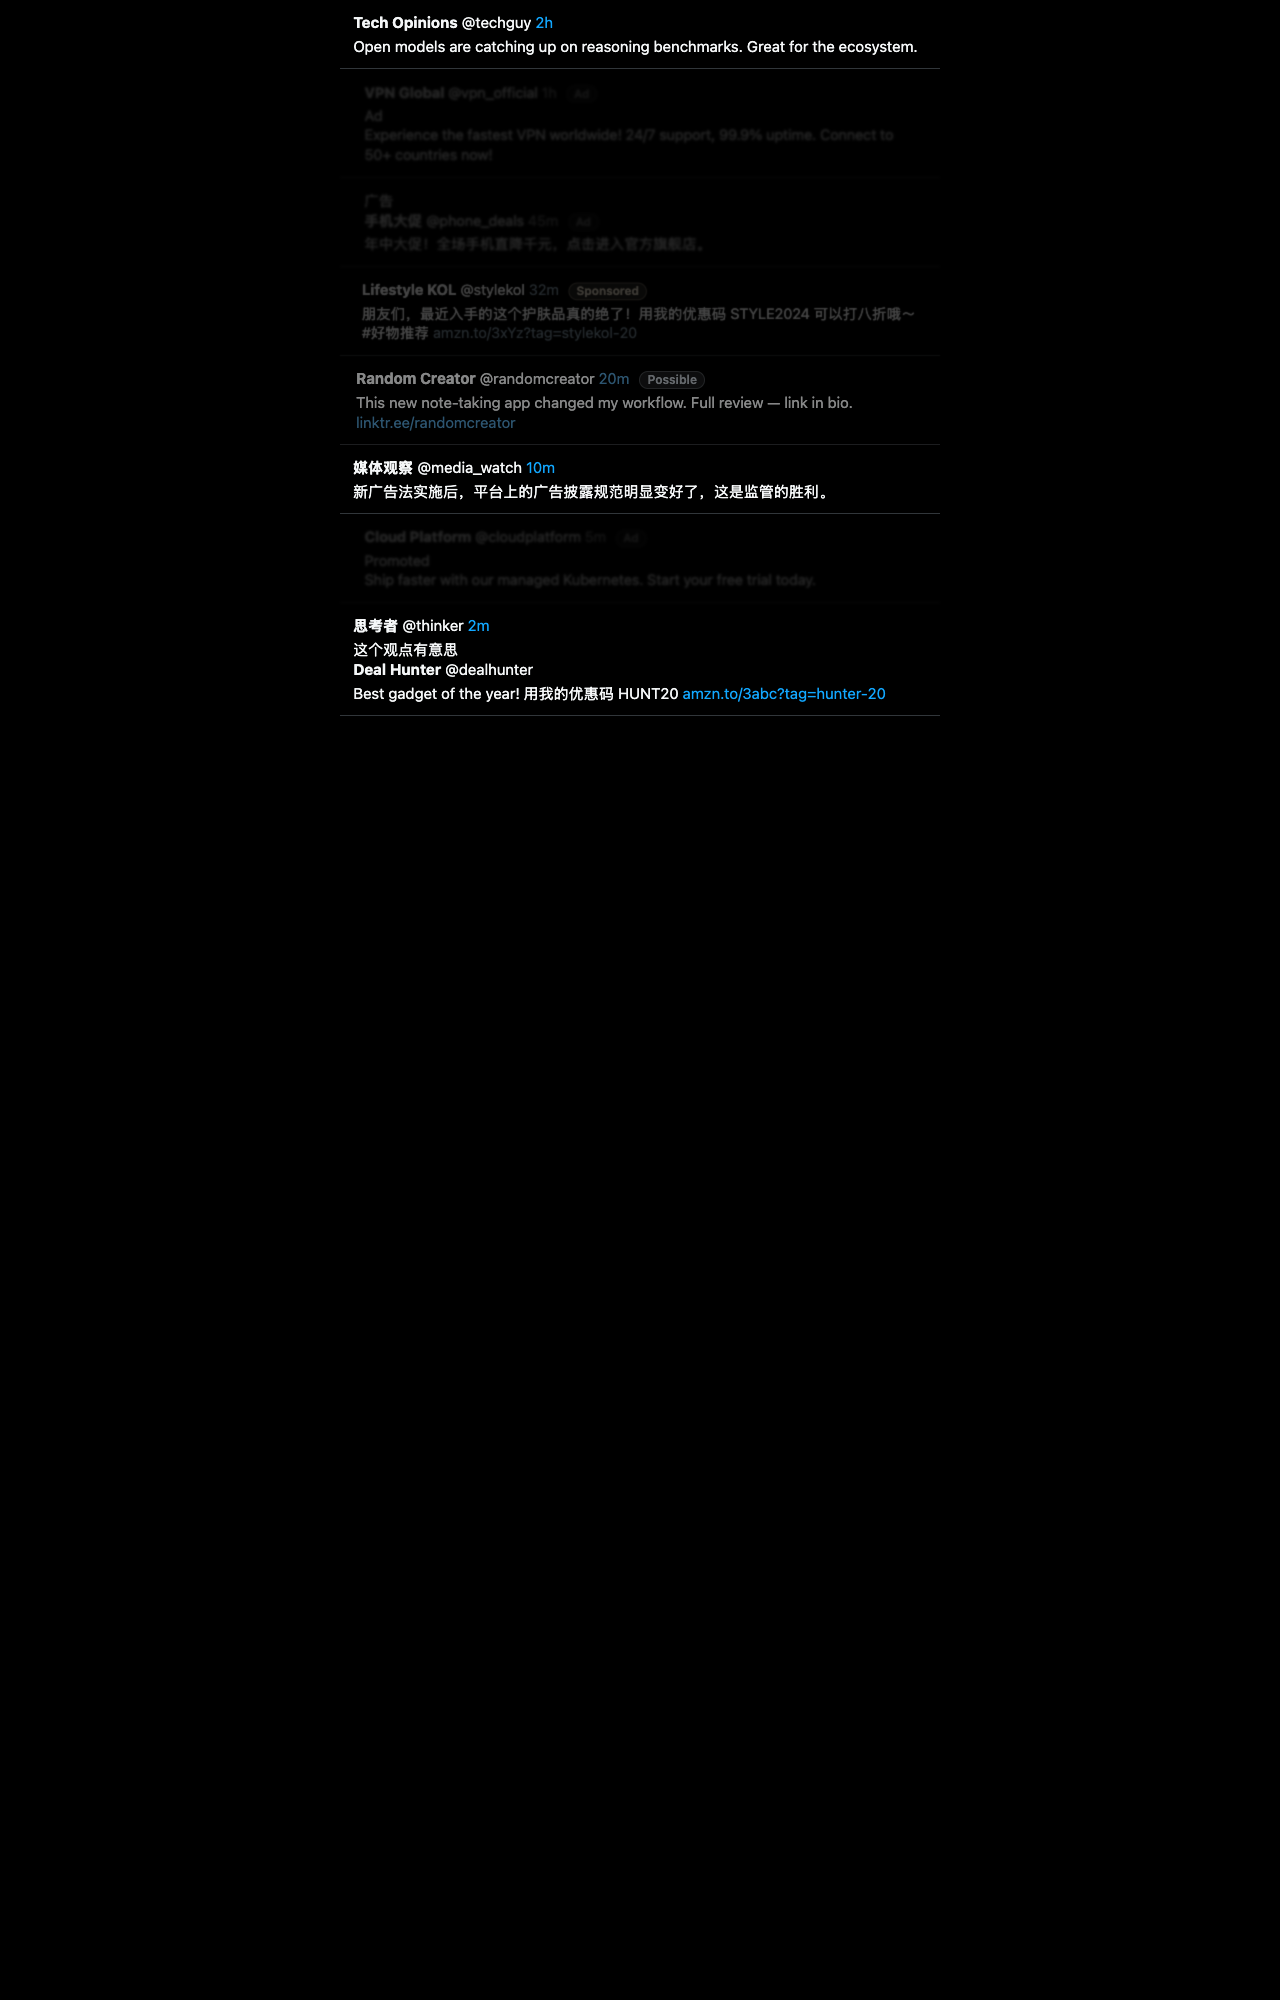
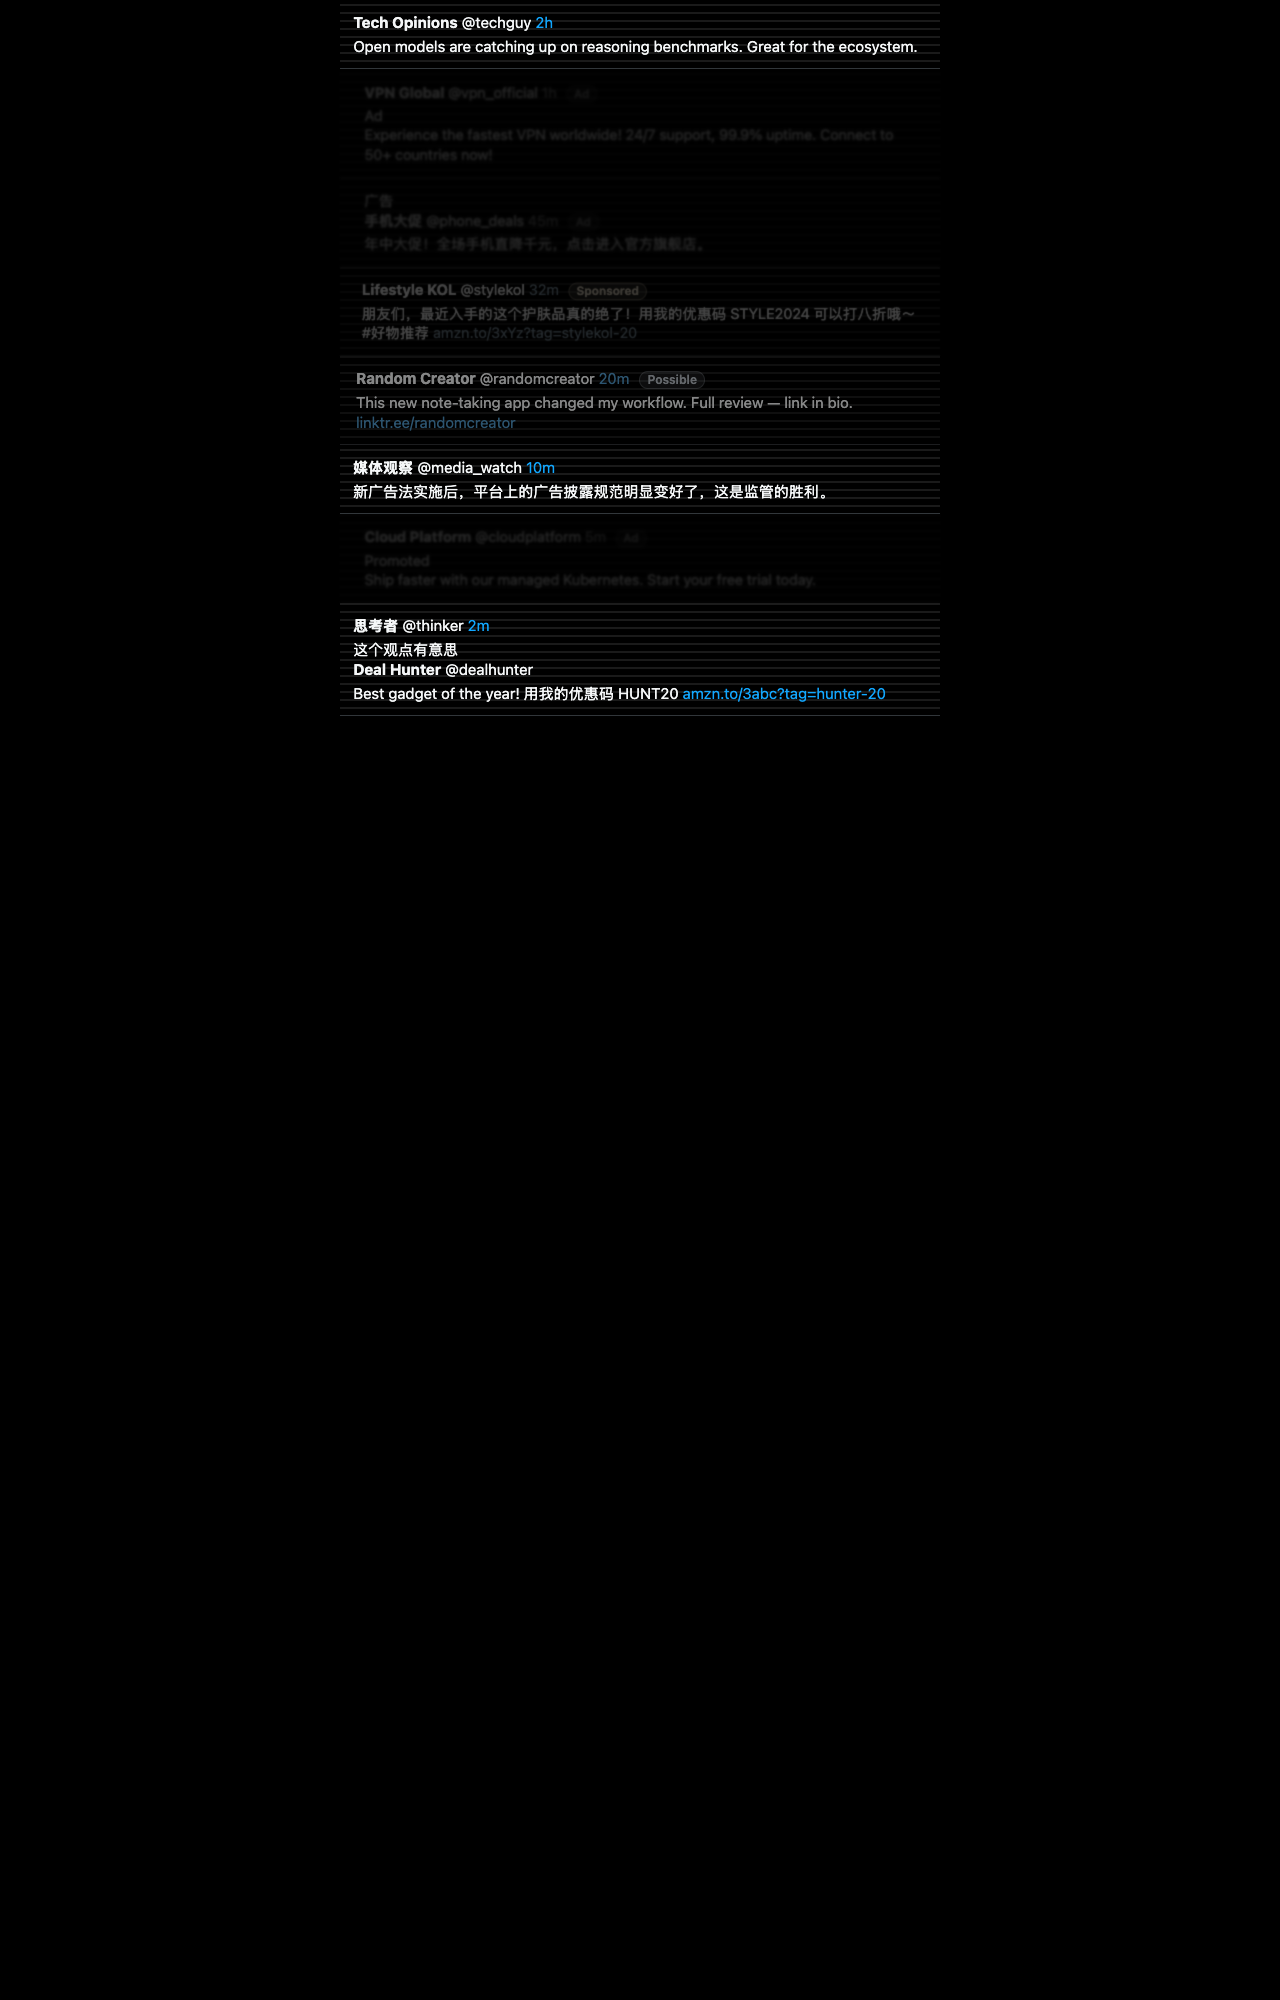
test(e2e): simulate X's virtualized cells and focus management in the fixture
The clean fixture could not reproduce user-confirmed sticky-state bugs.
Mimic x.com's dirty behaviors: articles wrapped in tabindex=-1 cells
positioned via transform: translateY, tabindex=0 articles, programmatic
cell focus on click, programmatic article focus nearest the viewport top
after scroll idle, X's cell hover background, suppressed focus outlines,
and a stripe pattern behind articles so backdrop blur is pixel-visible.

Changed region(s): [[0.25, 0.31, 0.75, 0.372], [0.25, 0.0, 0.75, 0.031], [0.2812, 0.217, 0.7188, 0.248]]

diff --git a/e2e/helpers/fixture-server.ts b/e2e/helpers/fixture-server.ts
@@ -14,10 +14,110 @@ export interface FixtureServer {
 }
 
 /**
+ * Debounce (ms) for the fixture's X-like scroll-end refocus. Exported so
+ * specs can wait just past it instead of hardcoding magic numbers.
+ */
+export const FIXTURE_SCROLL_REFOCUS_MS = 120;
+
+/**
+ * Mimics X's dirty timeline behaviors so sticky-state bugs reproduce:
+ *
+ * - Virtualization: every article is wrapped in a `cellInnerDiv` cell that is
+ *   absolutely positioned via `transform: translateY(...)`, like X's
+ *   react-virtualized timeline. Runs synchronously before DOMContentLoaded so
+ *   layout snapshots taken at DCL already see the virtualized geometry.
+ * - Focus management: cells carry `tabindex="-1"` and articles `tabindex="0"`
+ *   (as on x.com). Clicking anywhere inside a cell programmatically focuses
+ *   the cell; after scrolling stops, the tweet article nearest the viewport
+ *   top is programmatically focused (X's j/k keyboard-nav anchor does the
+ *   same). Chrome applies `:focus-visible` to such programmatic focus
+ *   whenever the session had no mousedown yet or the last input was a key.
+ *
+ * No template literals inside: this string is embedded in one.
+ */
+const X_BEHAVIOR_SCRIPT = `
+(function () {
+  var REFOCUS_IDLE_MS = ${FIXTURE_SCROLL_REFOCUS_MS};
+  var timeline = document.querySelector('[data-fixture="timeline"]');
+  if (!timeline) return;
+
+  var articles = Array.prototype.slice.call(timeline.querySelectorAll('article'));
+  var cells = articles.map(function (article) {
+    var cell = document.createElement('div');
+    cell.setAttribute('data-testid', 'cellInnerDiv');
+    cell.setAttribute('tabindex', '-1');
+    article.parentNode.insertBefore(cell, article);
+    cell.appendChild(article);
+    article.setAttribute('tabindex', '0');
+    return cell;
+  });
+
+  // Read phase: measure while the cells are still in normal flow.
+  var timelineTop = timeline.getBoundingClientRect().top;
+  var offsets = cells.map(function (cell) {
+    return cell.getBoundingClientRect().top - timelineTop;
+  });
+  var totalHeight = timeline.getBoundingClientRect().height;
+
+  // Write phase: switch to X-style transform positioning.
+  timeline.style.position = 'relative';
+  timeline.style.height = totalHeight + 'px';
+  cells.forEach(function (cell, index) {
+    cell.style.position = 'absolute';
+    cell.style.top = '0';
+    cell.style.left = '0';
+    cell.style.width = '100%';
+    cell.style.transform = 'translateY(' + offsets[index] + 'px)';
+  });
+
+  // X focuses the clicked cell (it owns the keyboard-nav cursor).
+  document.addEventListener('click', function (event) {
+    var target = event.target;
+    var cell = target && target.closest ? target.closest('[data-testid="cellInnerDiv"]') : null;
+    if (cell) cell.focus({ preventScroll: true });
+  });
+
+  // After scrolling settles, X re-anchors keyboard nav on the tweet nearest
+  // the viewport top. The focus target is the article (X's tweets are the
+  // tabindex="0" focusable units announced to screen readers).
+  var refocusTimer;
+  window.addEventListener(
+    'scroll',
+    function () {
+      clearTimeout(refocusTimer);
+      refocusTimer = setTimeout(function () {
+        var best = null;
+        var bestDistance = Infinity;
+        var current = Array.prototype.slice.call(timeline.querySelectorAll('article'));
+        current.forEach(function (article) {
+          var rect = article.getBoundingClientRect();
+          if (rect.bottom <= 0) return;
+          var distance = Math.abs(rect.top);
+          if (distance < bestDistance) {
+            bestDistance = distance;
+            best = article;
+          }
+        });
+        if (best) best.focus({ preventScroll: true });
+      }, REFOCUS_IDLE_MS);
+    },
+    { passive: true },
+  );
+})();
+`;
+
+/**
  * Wraps the shared timeline fragment (also used by the vitest integration
- * suite) in a minimal X-like page. `?theme=light` serves a white background
- * so the content script's luminance-based theme detection picks `light`;
- * the default is lights-out black (`dark`).
+ * suite) in an X-like page. `?theme=light` serves a white background so the
+ * content script's luminance-based theme detection picks `light`; the
+ * default is lights-out black (`dark`).
+ *
+ * Dirty-realism notes:
+ * - Articles carry a subtle stripe pattern (stand-in for media/avatars that
+ *   sit behind the glass overlay on x.com) so backdrop blur is measurable in
+ *   pixels, not just in computed style.
+ * - Cells get X's hover background; articles suppress the focus outline the
+ *   way x.com does.
  *
  * System fonts only: no webfont loading can shift layout between the
  * pre-mark and post-mark measurements in the layout-shift spec.
@@ -26,8 +126,14 @@ function renderTimelinePage(theme: 'dark' | 'light'): string {
   const fragment = readFileSync(FIXTURE_PATH, 'utf8');
   const palette =
     theme === 'light'
-      ? 'body { background: #ffffff; color: #0f1419; } article { border-bottom: 1px solid #eff3f4; }'
-      : 'body { background: #000000; color: #e7e9ea; } article { border-bottom: 1px solid #2f3336; }';
+      ? `body { background: #ffffff; color: #0f1419; }
+      article { border-bottom: 1px solid #eff3f4; }
+      article { background-image: repeating-linear-gradient(0deg, transparent 0 6px, rgba(15, 20, 25, 0.10) 6px 8px); }
+      [data-testid='cellInnerDiv']:hover { background-color: rgba(15, 20, 25, 0.03); }`
+      : `body { background: #000000; color: #e7e9ea; }
+      article { border-bottom: 1px solid #2f3336; }
+      article { background-image: repeating-linear-gradient(0deg, transparent 0 6px, rgba(255, 255, 255, 0.10) 6px 8px); }
+      [data-testid='cellInnerDiv']:hover { background-color: rgba(255, 255, 255, 0.03); }`;
 
   return `<!doctype html>
 <html lang="en">
@@ -45,6 +151,8 @@ function renderTimelinePage(theme: 'dark' | 'light'): string {
       main { max-width: 600px; margin: 0 auto; }
       article { display: block; padding: 12px 16px; }
       article a { color: #1d9bf0; text-decoration: none; }
+      /* x.com suppresses focus outlines on tweets and cells. */
+      article, [data-testid='cellInnerDiv'] { outline: none; }
       [data-testid='User-Name'] { margin-bottom: 4px; }
       [data-testid='User-Name'] span:first-child { font-weight: 700; }
       ${palette}
@@ -52,6 +160,7 @@ function renderTimelinePage(theme: 'dark' | 'light'): string {
   </head>
   <body>
     <main>${fragment}</main>
+    <script>${X_BEHAVIOR_SCRIPT}</script>
   </body>
 </html>`;
 }

diff --git a/e2e/tests/hover-reveal.spec.ts b/e2e/tests/hover-reveal.spec.ts
@@ -18,14 +18,6 @@ const waitForMarks = async (page: Page): Promise<void> => {
 /** Parks the pointer on the page background, away from every article. */
 const parkPointer = (page: Page): Promise<void> => page.mouse.move(5, 5);
 
-/**
- * X's tweet articles are keyboard-focusable. The fixture mirrors that here
- * (instead of in timeline.html) so the vitest integration suite stays
- * byte-identical to the DOM shapes it asserts on.
- */
-const makeArticleFocusable = (locator: Locator): Promise<void> =>
-  locator.evaluate((el) => el.setAttribute('tabindex', '0'));
-
 test.describe('hover reveal of dimmed ads', () => {
   test('hovering reveals the ad and leaving re-dims it', async ({ page, timelineUrl }) => {
     await page.goto(timelineUrl());
@@ -49,17 +41,17 @@ test.describe('hover reveal of dimmed ads', () => {
     await waitForMarks(page);
 
     const ad = article(page, 'promoted-en');
-    await makeArticleFocusable(ad);
     await expect.poll(() => opacityOf(ad)).toBe(DIMMED_OPACITY);
 
     await ad.click({ position: { x: 200, y: 30 } });
     await expect.poll(() => opacityOf(ad)).toBe('1');
 
     await parkPointer(page);
-    // The click left :focus inside the article — exactly the state X restores
-    // after visiting a post and navigating back. The reveal must not latch
-    // onto it (regression guard against :focus-within-style rules).
-    expect(await ad.evaluate((el) => el.contains(el.ownerDocument.activeElement))).toBe(true);
+    // The fixture mimics X: clicking parked programmatic focus on the ad's
+    // timeline cell. The reveal must not latch onto it.
+    expect(
+      await ad.evaluate((el) => el.ownerDocument.activeElement === el.parentElement),
+    ).toBe(true);
     await expect.poll(() => opacityOf(ad)).toBe(DIMMED_OPACITY);
   });
 
@@ -71,10 +63,9 @@ test.describe('hover reveal of dimmed ads', () => {
     await waitForMarks(page);
 
     const ad = article(page, 'promoted-en');
-    await makeArticleFocusable(ad);
     await expect.poll(() => opacityOf(ad)).toBe(DIMMED_OPACITY);
 
-    // Click the ad (focus lands inside it), then simulate X's SPA navigation:
+    // Click the ad (focus lands on its cell), then simulate X's SPA navigation:
     // the timeline is hidden behind a detail view, and restored on "Back".
     await ad.click({ position: { x: 200, y: 30 } });
     await page.evaluate(() => {